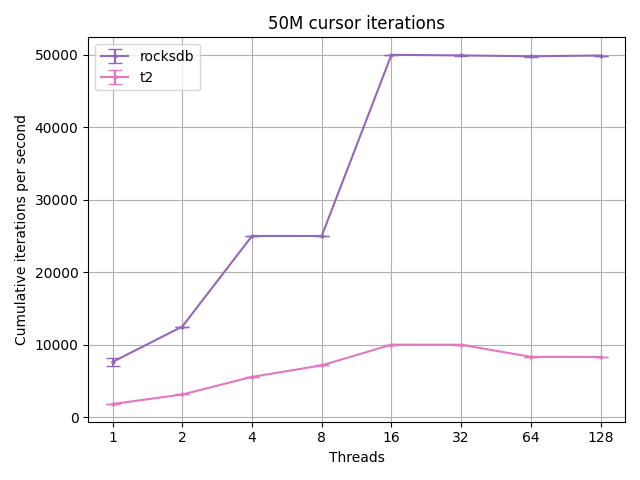
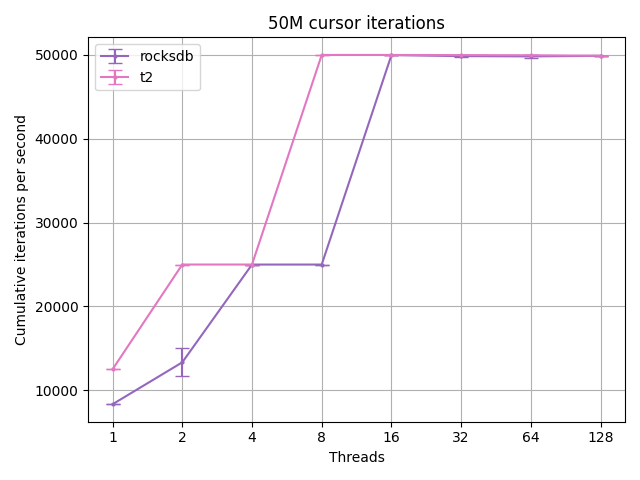
Fix t_next(): iterate the given number of times.
Pre-existing code iterated across the entire tree each time!

diff --git a/bn.c b/bn.c
@@ -75,6 +75,7 @@
         SASSERT(IS_ARRAY(array));                       \
         ((unsigned long)(idx)) < ARRAY_SIZE(array);     \
 })
+#define COF(ptr, type, member) ((type *)((char *)(ptr) - __builtin_offsetof(type, member)))
 
 /*
  * Reduces ("aggregates") given expression over an interval.
@@ -333,7 +334,8 @@ static uint64_t brnd(uint64_t prev) {
 }
 
 static int bn_next(struct t2_cursor *c, const struct t2_rec *rec) {
-        return +1;
+        struct kvdata *d = COF(c, struct kvdata, u.t2.c);
+        return --d->u.t2.iter > 0 ? +1 : 0;
 }
 
 static void binc(unsigned char *key, int len) {
@@ -842,8 +844,9 @@ static int t_delete(struct rthread *rt, struct kvdata *d, void *key, void *cpy, 
 static int t_next(struct rthread *rt, struct kvdata *d, void *key, int ksize, enum t2_dir dir, int nr) {
         struct t2_buf nextkey = { .addr = key, .len = ksize };
         d->u.t2.c.dir = dir;
+        d->u.t2.iter = nr;
         t2_cursor_init(&d->u.t2.c, &nextkey);
-        for (int i = 0; i < nr && t2_cursor_next(&d->u.t2.c) > 0; ++i) {
+        while (t2_cursor_next(&d->u.t2.c) > 0) {
                 ;
         }
         t2_cursor_fini(&d->u.t2.c);

diff --git a/bn.h b/bn.h
@@ -184,6 +184,7 @@ struct kvdata {
                         struct t2_tree      *tree;
                         struct t2_cursor_op  cop;
                         struct t2_cursor     c;
+                        int                  iter;
                         void                *cur;
                         void                *cpy;
                         struct t2_tx        *tx;

diff --git a/README.md b/README.md
@@ -62,8 +62,6 @@ Now that the key-value store is populated, benchmark lookups at various concurre
 Next, iterate over the keys: create 50K cursors, each doing 1000 iterations
 (50M iterations total with varying concurrency levels).
 
-Currently, cursors in t2 use fairly standard B-tree locking. This is significantly slower than lockless lookup:
-
 ![iterate over 50M records](https://github.com/nikitadanilov/t2/blob/master/doc/images/iterations-50M.png?raw=true)
 
 Delete the records:
